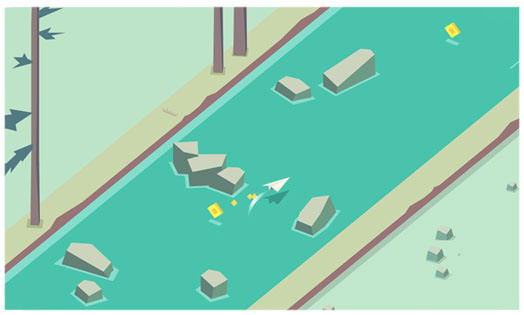
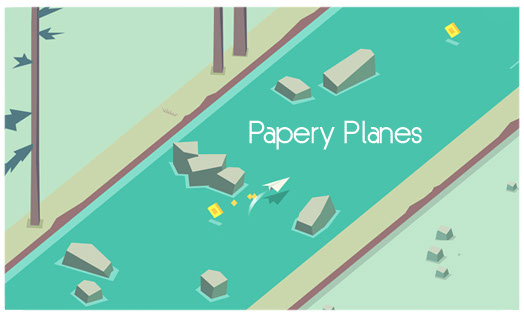
Header images updated

Changed region(s): [[0.458, 0.3714, 0.8244, 0.4857]]

diff --git a/index.html b/index.html
@@ -23,12 +23,12 @@ if(typeof Muse == "undefined") window.Muse = {}; window.Muse.assets = {"required
   <title>Akos Makovics - Awesome iOS and Android games</title>
   <!-- CSS -->
   <link rel="stylesheet" type="text/css" href="css/site_global.css?crc=443350757"/>
-  <link rel="stylesheet" type="text/css" href="css/master_master.css?crc=76406143"/>
-  <link rel="stylesheet" type="text/css" href="css/index.css?crc=3833459320" id="pagesheet"/>
+  <link rel="stylesheet" type="text/css" href="css/master_master.css?crc=266289373"/>
+  <link rel="stylesheet" type="text/css" href="css/index.css?crc=240706939" id="pagesheet"/>
   <!-- IE-only CSS -->
   <!--[if lt IE 9]>
   <link rel="stylesheet" type="text/css" href="css/nomq_preview_master_master.css?crc=3824530138"/>
-  <link rel="stylesheet" type="text/css" href="css/nomq_index.css?crc=430842893" id="nomq_pagesheet"/>
+  <link rel="stylesheet" type="text/css" href="css/nomq_index.css?crc=3784313563" id="nomq_pagesheet"/>
   <![endif]-->
   <!-- Other scripts -->
   <script type="text/javascript">
@@ -51,44 +51,24 @@ if(typeof Muse == "undefined") window.Muse = {}; window.Muse.assets = {"required
      <a class="nonblock nontext clip_frame grpelem" id="u219" href="mailto:contact@akos-makovics.com"><!-- image --><img class="block temp_no_img_src" id="u219_img" data-orig-src="images/email.png?crc=101407751" alt="" width="76" height="76" src="images/blank.gif?crc=4208392903"/></a>
      <a class="nonblock nontext clip_frame grpelem" id="u229" href="https://www.facebook.com/akosMakovicsDev"><!-- image --><img class="block temp_no_img_src" id="u229_img" data-orig-src="images/facebook.png?crc=295356413" alt="" width="76" height="76" src="images/blank.gif?crc=4208392903"/></a>
     </div>
-    <div class="browser_width colelem shared_content" id="u8701-4-bw" data-content-guid="u8701-4-bw_content">
-     <div class="clearfix shared_content" id="u8701-4" data-content-guid="u8701-4_content"><!-- content -->
-      <p>RoundRoundRound</p>
-     </div>
-    </div>
     <div class="clip_frame colelem" id="u8699"><!-- image -->
-     <img class="block temp_no_img_src" id="u8699_img" data-orig-src="images/banner_round3.png?crc=509090210" alt="" data-image-width="550" data-image-height="331" src="images/blank.gif?crc=4208392903"/>
+     <img class="block temp_no_img_src" id="u8699_img" data-orig-src="images/banner_round3.png?crc=235600135" alt="" data-image-width="550" data-image-height="331" src="images/blank.gif?crc=4208392903"/>
     </div>
     <div class="browser_width colelem shared_content" id="u8727-4-bw" data-content-guid="u8727-4-bw_content">
      <div class="clearfix shared_content" id="u8727-4" data-content-guid="u8727-4_content"><!-- content -->
       <p>Coming soon!</p>
      </div>
     </div>
-    <div class="browser_width colelem shared_content" id="u8437-4-bw" data-content-guid="u8437-4-bw_content">
-     <div class="clearfix shared_content" id="u8437-4" data-content-guid="u8437-4_content"><!-- content -->
-      <p>Papery Planes</p>
-     </div>
-    </div>
-    <a class="nonblock nontext clip_frame colelem" id="u8435" href="papery_planes.html"><!-- image --><img class="block temp_no_img_src" id="u8435_img" data-orig-src="images/banner_papery_planes.jpg?crc=4279991711" alt="" data-image-width="550" data-image-height="331" src="images/blank.gif?crc=4208392903"/></a>
+    <a class="nonblock nontext clip_frame colelem" id="u8435" href="papery_planes.html"><!-- image --><img class="block temp_no_img_src" id="u8435_img" data-orig-src="images/banner_papery_planes.jpg?crc=3875786347" alt="" data-image-width="550" data-image-height="331" src="images/blank.gif?crc=4208392903"/></a>
     <a class="nonblock nontext clip_frame colelem shared_content" id="u8574" href="https://itunes.apple.com/app/id1189187822" data-content-guid="u8574_content"><!-- svg --><img class="svg temp_no_img_src" id="u8575" data-orig-src="images/app-store-badge.svg?crc=205710994" width="150" height="44" alt="" data-mu-svgfallback="images/app%20store%20badge_poster_.png?crc=4048965831" src="images/blank.gif?crc=4208392903"/></a>
-    <div class="browser_width colelem shared_content" id="u7683-4-bw" data-content-guid="u7683-4-bw_content">
-     <div class="clearfix shared_content" id="u7683-4" data-content-guid="u7683-4_content"><!-- content -->
-      <p>Bouncy Cubes</p>
-     </div>
-    </div>
-    <a class="nonblock nontext clip_frame colelem" id="u7669" href="bouncy_cubes.html"><!-- image --><img class="block temp_no_img_src" id="u7669_img" data-orig-src="images/banner_bouncy_cubes.jpg?crc=71109757" alt="" data-image-width="550" data-image-height="331" src="images/blank.gif?crc=4208392903"/></a>
+    <a class="nonblock nontext clip_frame colelem" id="u7669" href="bouncy_cubes.html"><!-- image --><img class="block temp_no_img_src" id="u7669_img" data-orig-src="images/banner_bouncy_cubes.jpg?crc=503476358" alt="" data-image-width="550" data-image-height="331" src="images/blank.gif?crc=4208392903"/></a>
     <a class="nonblock nontext clip_frame colelem shared_content" id="u8035" href="https://itunes.apple.com/app/id1124379712" data-content-guid="u8035_content"><!-- svg --><img class="svg temp_no_img_src" id="u8036" data-orig-src="images/app-store-badge.svg?crc=205710994" width="150" height="44" alt="" data-mu-svgfallback="images/app%20store%20badge_poster_.png?crc=4048965831" src="images/blank.gif?crc=4208392903"/></a>
-    <div class="browser_width colelem shared_content" id="u309-4-bw" data-content-guid="u309-4-bw_content">
-     <div class="clearfix shared_content" id="u309-4" data-content-guid="u309-4_content"><!-- content -->
-      <p>Casual Cube</p>
-     </div>
-    </div>
-    <a class="nonblock nontext clip_frame colelem" id="u299" href="casual_cube.html"><!-- image --><img class="block temp_no_img_src" id="u299_img" data-orig-src="images/banner_casualcubes.png?crc=136656570" alt="" data-image-width="550" data-image-height="331" src="images/blank.gif?crc=4208392903"/></a>
+    <a class="nonblock nontext clip_frame colelem" id="u299" href="casual_cube.html"><!-- image --><img class="block temp_no_img_src" id="u299_img" data-orig-src="images/banner_casualcubes.png?crc=346725018" alt="" data-image-width="550" data-image-height="331" src="images/blank.gif?crc=4208392903"/></a>
     <div class="clearfix colelem shared_content" id="pu352" data-content-guid="pu352_content"><!-- group -->
      <a class="nonblock nontext clip_frame grpelem" id="u352" href="http://itunes.apple.com/app/id1022756733"><!-- svg --><img class="svg temp_no_img_src" id="u6209" data-orig-src="images/app-store-badge.svg?crc=205710994" width="150" height="44" alt="" data-mu-svgfallback="images/app%20store%20badge_poster_.png?crc=4048965831" src="images/blank.gif?crc=4208392903"/></a>
      <a class="nonblock nontext museBGSize grpelem" id="u6268" href="https://play.google.com/store/apps/details?id=com.atlantisgames.hopgame&amp;pageId=112080304641042623509"><!-- simple frame --></a>
     </div>
-    <div class="verticalspacer" data-offset-top="2467" data-content-above-spacer="2466" data-content-below-spacer="244"></div>
+    <div class="verticalspacer" data-offset-top="2357" data-content-above-spacer="2356" data-content-below-spacer="205"></div>
     <div class="clearfix colelem shared_content" id="u198-4" data-content-guid="u198-4_content"><!-- content -->
      <p>© Copyright Akos Makovics. All rights reserved</p>
     </div>
@@ -98,49 +78,39 @@ if(typeof Muse == "undefined") window.Muse = {}; window.Muse.assets = {"required
    <div class="clearfix borderbox temp_no_id" data-orig-id="page"><!-- column -->
     <span class="clip_frame colelem placeholder" data-placeholder-for="u181_content"><!-- placeholder node --></span>
     <span class="clearfix colelem placeholder" data-placeholder-for="pu209_content"><!-- placeholder node --></span>
-    <span class="browser_width colelem placeholder" data-placeholder-for="u8701-4-bw_content"><!-- placeholder node --></span>
     <div class="clip_frame colelem temp_no_id" data-orig-id="u8699"><!-- image -->
-     <img class="block temp_no_id temp_no_img_src" data-orig-src="images/banner_round3.png?crc=509090210" alt="" width="550" height="330" data-orig-id="u8699_img" src="images/blank.gif?crc=4208392903"/>
+     <img class="block temp_no_id temp_no_img_src" data-orig-src="images/banner_round3.png?crc=235600135" alt="" width="550" height="330" data-orig-id="u8699_img" src="images/blank.gif?crc=4208392903"/>
     </div>
     <span class="browser_width colelem placeholder" data-placeholder-for="u8727-4-bw_content"><!-- placeholder node --></span>
-    <span class="browser_width colelem placeholder" data-placeholder-for="u8437-4-bw_content"><!-- placeholder node --></span>
-    <a class="nonblock nontext clip_frame colelem temp_no_id" href="papery_planes.html" data-orig-id="u8435"><!-- image --><img class="block temp_no_id temp_no_img_src" data-orig-src="images/banner_papery_planes.jpg?crc=4279991711" alt="" width="550" height="330" data-orig-id="u8435_img" src="images/blank.gif?crc=4208392903"/></a>
+    <a class="nonblock nontext clip_frame colelem temp_no_id" href="papery_planes.html" data-orig-id="u8435"><!-- image --><img class="block temp_no_id temp_no_img_src" data-orig-src="images/banner_papery_planes.jpg?crc=3875786347" alt="" width="550" height="330" data-orig-id="u8435_img" src="images/blank.gif?crc=4208392903"/></a>
     <span class="nonblock nontext clip_frame colelem placeholder" data-placeholder-for="u8574_content"><!-- placeholder node --></span>
-    <span class="browser_width colelem placeholder" data-placeholder-for="u7683-4-bw_content"><!-- placeholder node --></span>
-    <a class="nonblock nontext clip_frame colelem temp_no_id" href="bouncy_cubes.html" data-orig-id="u7669"><!-- image --><img class="block temp_no_id temp_no_img_src" data-orig-src="images/banner_bouncy_cubes.jpg?crc=71109757" alt="" width="550" height="331" data-orig-id="u7669_img" src="images/blank.gif?crc=4208392903"/></a>
+    <a class="nonblock nontext clip_frame colelem temp_no_id" href="bouncy_cubes.html" data-orig-id="u7669"><!-- image --><img class="block temp_no_id temp_no_img_src" data-orig-src="images/banner_bouncy_cubes.jpg?crc=503476358" alt="" width="550" height="331" data-orig-id="u7669_img" src="images/blank.gif?crc=4208392903"/></a>
     <span class="nonblock nontext clip_frame colelem placeholder" data-placeholder-for="u8035_content"><!-- placeholder node --></span>
-    <span class="browser_width colelem placeholder" data-placeholder-for="u309-4-bw_content"><!-- placeholder node --></span>
-    <a class="nonblock nontext clip_frame colelem temp_no_id" href="casual_cube.html" data-orig-id="u299"><!-- image --><img class="block temp_no_id temp_no_img_src" data-orig-src="images/banner_casualcubes.png?crc=136656570" alt="" width="550" height="331" data-orig-id="u299_img" src="images/blank.gif?crc=4208392903"/></a>
+    <a class="nonblock nontext clip_frame colelem temp_no_id" href="casual_cube.html" data-orig-id="u299"><!-- image --><img class="block temp_no_id temp_no_img_src" data-orig-src="images/banner_casualcubes.png?crc=346725018" alt="" width="550" height="331" data-orig-id="u299_img" src="images/blank.gif?crc=4208392903"/></a>
     <span class="clearfix colelem placeholder" data-placeholder-for="pu352_content"><!-- placeholder node --></span>
-    <div class="verticalspacer" data-offset-top="2643" data-content-above-spacer="2642" data-content-below-spacer="141"></div>
+    <div class="verticalspacer" data-offset-top="2366" data-content-above-spacer="2366" data-content-below-spacer="208"></div>
     <span class="clearfix colelem placeholder" data-placeholder-for="u198-4_content"><!-- placeholder node --></span>
    </div>
   </div>
   <div class="breakpoint" id="bp_640" data-max-width="640"><!-- responsive breakpoint node -->
    <div class="clearfix borderbox temp_no_id" data-orig-id="page"><!-- group -->
-    <div class="clearfix grpelem" id="pu8701-4"><!-- column -->
-     <span class="clearfix colelem placeholder" data-placeholder-for="u8701-4_content"><!-- placeholder node --></span>
-     <span class="clearfix colelem placeholder" data-placeholder-for="u8727-4_content"><!-- placeholder node --></span>
-     <span class="clearfix colelem placeholder" data-placeholder-for="u8437-4_content"><!-- placeholder node --></span>
-     <span class="clearfix colelem placeholder" data-placeholder-for="u7683-4_content"><!-- placeholder node --></span>
-     <span class="clearfix colelem placeholder" data-placeholder-for="u309-4_content"><!-- placeholder node --></span>
-    </div>
+    <span class="clearfix grpelem placeholder" data-placeholder-for="u8727-4_content"><!-- placeholder node --></span>
     <div class="clearfix grpelem" id="pu181"><!-- column -->
      <div class="clip_frame colelem temp_no_id" data-orig-id="u181"><!-- image -->
       <img class="block temp_no_id temp_no_img_src" data-orig-src="images/logo.png?crc=314074293" alt="" width="164" height="176" data-orig-id="u181_img" src="images/blank.gif?crc=4208392903"/>
      </div>
      <span class="clearfix colelem placeholder" data-placeholder-for="pu209_content"><!-- placeholder node --></span>
      <div class="clip_frame colelem temp_no_id" data-orig-id="u8699"><!-- image -->
-      <img class="block temp_no_id temp_no_img_src" data-orig-src="images/banner_round3.png?crc=509090210" alt="" data-image-width="475" data-image-height="286" data-orig-id="u8699_img" src="images/blank.gif?crc=4208392903"/>
+      <img class="block temp_no_id temp_no_img_src" data-orig-src="images/banner_round3.png?crc=235600135" alt="" data-image-width="475" data-image-height="286" data-orig-id="u8699_img" src="images/blank.gif?crc=4208392903"/>
      </div>
-     <a class="nonblock nontext clip_frame colelem temp_no_id" href="papery_planes.html" data-orig-id="u8435"><!-- image --><img class="block temp_no_id temp_no_img_src" data-orig-src="images/banner_papery_planes.jpg?crc=4279991711" alt="" data-image-width="475" data-image-height="286" data-orig-id="u8435_img" src="images/blank.gif?crc=4208392903"/></a>
+     <a class="nonblock nontext clip_frame colelem temp_no_id" href="papery_planes.html" data-orig-id="u8435"><!-- image --><img class="block temp_no_id temp_no_img_src" data-orig-src="images/banner_papery_planes.jpg?crc=3875786347" alt="" data-image-width="475" data-image-height="286" data-orig-id="u8435_img" src="images/blank.gif?crc=4208392903"/></a>
      <span class="nonblock nontext clip_frame colelem placeholder" data-placeholder-for="u8574_content"><!-- placeholder node --></span>
-     <a class="nonblock nontext clip_frame colelem temp_no_id" href="bouncy_cubes.html" data-orig-id="u7669"><!-- image --><img class="block temp_no_id temp_no_img_src" data-orig-src="images/banner_bouncy_cubes.jpg?crc=71109757" alt="" data-image-width="475" data-image-height="286" data-orig-id="u7669_img" src="images/blank.gif?crc=4208392903"/></a>
+     <a class="nonblock nontext clip_frame colelem temp_no_id" href="bouncy_cubes.html" data-orig-id="u7669"><!-- image --><img class="block temp_no_id temp_no_img_src" data-orig-src="images/banner_bouncy_cubes.jpg?crc=503476358" alt="" data-image-width="475" data-image-height="286" data-orig-id="u7669_img" src="images/blank.gif?crc=4208392903"/></a>
      <span class="nonblock nontext clip_frame colelem placeholder" data-placeholder-for="u8035_content"><!-- placeholder node --></span>
-     <a class="nonblock nontext clip_frame colelem temp_no_id" href="casual_cube.html" data-orig-id="u299"><!-- image --><img class="block temp_no_id temp_no_img_src" data-orig-src="images/banner_casualcubes.png?crc=136656570" alt="" data-image-width="475" data-image-height="286" data-orig-id="u299_img" src="images/blank.gif?crc=4208392903"/></a>
+     <a class="nonblock nontext clip_frame colelem temp_no_id" href="casual_cube.html" data-orig-id="u299"><!-- image --><img class="block temp_no_id temp_no_img_src" data-orig-src="images/banner_casualcubes.png?crc=346725018" alt="" data-image-width="475" data-image-height="286" data-orig-id="u299_img" src="images/blank.gif?crc=4208392903"/></a>
      <span class="clearfix colelem placeholder" data-placeholder-for="pu352_content"><!-- placeholder node --></span>
     </div>
-    <div class="verticalspacer" data-offset-top="2232" data-content-above-spacer="2232" data-content-below-spacer="70"></div>
+    <div class="verticalspacer" data-offset-top="2052" data-content-above-spacer="2052" data-content-below-spacer="70"></div>
     <span class="clearfix grpelem placeholder" data-placeholder-for="u198-4_content"><!-- placeholder node --></span>
    </div>
   </div>

diff --git a/css/index.css b/css/index.css
@@ -1,1 +1,1 @@
-.version.index{color:#0000E4;background-color:#7DF278;}.js body{visibility:hidden;}.js body.initialized{visibility:visible;}#page{background-image:none;border-width:0px;border-color:#000000;background-color:#000000;margin-right:auto;margin-left:auto;z-index:1;width:100%;}#u8701-4{color:#FFFFFF;text-align:center;z-index:41;background-color:transparent;font-family:imprima, sans-serif;font-size:42px;font-weight:400;line-height:50px;}#u8727-4{color:#FFFFFF;font-weight:400;background-color:transparent;font-family:imprima, sans-serif;font-size:37px;line-height:44px;z-index:45;text-align:center;}#u8437-4{color:#FFFFFF;font-weight:400;background-color:transparent;font-family:imprima, sans-serif;font-size:42px;line-height:50px;z-index:33;text-align:center;}#u7683-4{color:#FFFFFF;font-weight:400;background-color:transparent;font-family:imprima, sans-serif;font-size:42px;line-height:50px;z-index:25;text-align:center;}#u309-4{color:#FFFFFF;font-weight:400;background-color:transparent;font-family:imprima, sans-serif;font-size:42px;line-height:50px;z-index:16;text-align:center;}#u181{z-index:2;position:relative;}#pu209{z-index:8;}#u209{width:76px;margin-right:-10000px;z-index:8;position:relative;}#u219{width:76px;margin-right:-10000px;z-index:10;position:relative;}#u229{width:76px;margin-right:-10000px;z-index:12;position:relative;}#u8699{background-color:transparent;z-index:39;position:relative;}#u8435{z-index:31;position:relative;background-color:transparent;}#u8574{z-index:37;position:relative;background-color:transparent;width:150px;}#u8575{margin-bottom:10px;display:block;z-index:38;}#u7669{position:relative;background-color:transparent;z-index:23;}#u8035{z-index:29;position:relative;background-color:transparent;width:150px;}#u8036{margin-bottom:10px;display:block;z-index:30;}#u299{background-color:transparent;z-index:14;position:relative;}#pu352{z-index:20;}#u352{z-index:20;position:relative;background-color:transparent;width:150px;margin-right:-10000px;}#u6209{margin-bottom:10px;display:block;z-index:21;}#u6268{width:150px;position:relative;opacity:1;filter:alpha(opacity=100);margin-right:-10000px;z-index:22;-ms-filter:"progid:DXImageTransform.Microsoft.Alpha(Opacity=100)";height:45px;background:transparent url("../images/get_it_on_google_play.svg?crc=4113458535") no-repeat left top;background-size:contain;}.nosvg #u6268{background-image:url('../images/get_it_on_google_play_poster_u6281.png?crc=3860599374');}#u198-4{z-index:4;position:relative;min-height:50px;}.html{background-color:#000000;}body{position:relative;}@media (min-width: 751px), print{#muse_css_mq{background-color:#FFFFFF;}#bp_infinity.active{display:block;}#page{min-height:2660.685313174946px;padding-top:38px;padding-bottom:11.314686825054196px;max-width:960px;}#u181{width:162px;margin-left:41.57%;}#pu209{margin-top:17px;width:100%;}#u209{left:33.34%;}#u219{left:46.57%;}#u229{left:59.9%;}#u8701-4-bw{z-index:41;min-height:62px;margin-top:131px;}#u8727-4{min-height:45px;}#u8727-4-bw{z-index:45;min-height:45px;}#u8437-4-bw{z-index:33;min-height:62px;margin-top:66px;}#u8435{margin-top:1px;width:57.3%;margin-left:21.36%;}#u8574{margin-top:8px;margin-left:42.19%;}#u7683-4-bw{z-index:25;min-height:62px;margin-top:67px;}#u8035{margin-top:6px;margin-left:42.5%;}#u8701-4,#u8437-4,#u7683-4,#u309-4{min-height:62px;}#u309-4-bw{z-index:16;min-height:62px;margin-top:62px;}#u8699,#u7669,#u299{width:57.3%;margin-left:21.36%;}#u8699_img,#u8435_img,#u7669_img,#u299_img{padding-bottom:9px;width:100%;}#pu352{margin-top:6px;width:100%;}#u352{left:26.88%;}#u6268{left:56.78%;}.css_verticalspacer .verticalspacer{height:calc(100vh - 2710px);}#u198-4{margin-top:182px;width:48.23%;margin-left:25.84%;}}@media (min-width: 641px) and (max-width: 750px){#muse_css_mq{background-color:#0002ee;}#bp_750.active{display:block;}#page{min-height:2729.5853131749454px;padding-top:38px;padding-bottom:15.41468682505456px;max-width:750px;}#u181{width:162px;margin-left:39.2%;}#pu209{margin-top:13px;width:100%;}#u209{left:28.01%;}#u219{left:44.94%;}#u229{left:61.87%;}#u8701-4-bw{z-index:41;min-height:62px;margin-top:129px;}#u8699{width:550px;margin-left:50%;left:-275px;}#u8727-4-bw{z-index:45;min-height:62px;margin-top:8px;}#u8437-4-bw{z-index:33;min-height:62px;margin-top:138px;}#u8435{width:550px;margin-top:10px;margin-left:50%;left:-275px;}#u8574{margin-top:16px;margin-left:40%;}#u7683-4-bw{z-index:25;min-height:62px;margin-top:92px;}#u7669{width:550px;margin-top:8px;margin-left:50%;left:-275px;}#u8035{margin-top:12px;margin-left:40%;}#u8701-4,#u8727-4,#u8437-4,#u7683-4,#u309-4{min-height:62px;}#u309-4-bw{z-index:16;min-height:62px;margin-top:91px;}#u299{width:550px;margin-left:50%;left:-285px;}#u8699_img,#u8435_img,#u7669_img,#u299_img{padding-bottom:9px;}#pu352{margin-top:6px;width:100%;}#u352{left:21.07%;}#u6268{left:58.14%;}.css_verticalspacer .verticalspacer{height:calc(100vh - 2783px);}#u198-4{margin-top:75px;width:48.27%;margin-left:25.87%;}body{overflow-x:hidden;}}@media (max-width: 640px){#muse_css_mq{background-color:#000280;}#bp_640.active{display:block;}#page{min-height:2396px;padding-bottom:11px;max-width:640px;}#pu8701-4{z-index:41;margin-right:-10000px;margin-top:379px;width:100%;margin-left:0%;}#u8701-4{width:640px;min-height:50px;position:relative;margin-left:50%;left:-320px;}#u8727-4{width:640px;min-height:50px;margin-top:290px;position:relative;margin-left:50%;left:-320px;}#u8437-4{width:640px;min-height:50px;margin-top:90px;position:relative;margin-left:50%;left:-320px;}#u7683-4{width:640px;min-height:50px;margin-top:424px;position:relative;margin-left:50%;left:-320px;}#u309-4{width:640px;min-height:50px;margin-top:434px;position:relative;margin-left:50%;left:-320px;}#pu181{z-index:2;padding-bottom:0px;margin-right:-10000px;margin-top:37px;width:74.22%;margin-left:12.82%;}#u181{width:164px;margin-left:30.74%;}#pu209{margin-top:14px;width:69.06%;margin-left:13.48%;}#u219{left:38.42%;}#u229{left:76.83%;}#u8699{margin-top:126px;width:100%;}#u8435{margin-top:188px;width:100%;}#u8574{margin-top:7px;margin-left:34.11%;}#u7669{margin-top:128px;width:100%;}#u8035{margin-left:34.11%;}#u299{margin-top:131px;width:100%;}#u8699_img,#u8435_img,#u7669_img,#u299_img{padding-bottom:8px;width:100%;}#pu352{margin-top:11px;width:81.9%;margin-left:10.32%;}#u6268{left:61.44%;}.css_verticalspacer .verticalspacer{height:calc(100vh - 2302px);}#u198-4{margin-right:-10000px;margin-top:9px;width:48.29%;left:24.38%;}body{overflow-x:hidden;min-width:640px;}.verticalspacer{min-height:105px;}}
+.version.index{color:#00000E;background-color:#58E57B;}.js body{visibility:hidden;}.js body.initialized{visibility:visible;}#page{margin-right:auto;width:100%;border-width:0px;background-image:none;z-index:1;background-color:#000000;border-color:#000000;margin-left:auto;}#u8727-4{color:#FFFFFF;background-color:transparent;z-index:29;font-size:37px;text-align:center;line-height:44px;font-weight:400;font-family:imprima, sans-serif;}#u181{z-index:2;position:relative;}#pu209{z-index:8;}#u209{margin-right:-10000px;width:76px;z-index:8;position:relative;}#u219{margin-right:-10000px;width:76px;z-index:10;position:relative;}#u229{margin-right:-10000px;width:76px;z-index:12;position:relative;}#u8699{background-color:transparent;position:relative;z-index:27;}#u8435{background-color:transparent;position:relative;z-index:23;}#u8574{background-color:transparent;position:relative;width:150px;z-index:25;}#u8575{margin-bottom:10px;display:block;z-index:26;}#u7669{background-color:transparent;position:relative;z-index:19;}#u8035{background-color:transparent;position:relative;width:150px;z-index:21;}#u8036{margin-bottom:10px;display:block;z-index:22;}#u299{background-color:transparent;position:relative;z-index:14;}#pu352{z-index:16;}#u352{margin-right:-10000px;background-color:transparent;position:relative;width:150px;z-index:16;}#u6209{margin-bottom:10px;display:block;z-index:17;}#u6268{position:relative;opacity:1;z-index:18;-ms-filter:"progid:DXImageTransform.Microsoft.Alpha(Opacity=100)";filter:alpha(opacity=100);margin-right:-10000px;width:150px;height:45px;background:transparent url("../images/get_it_on_google_play.svg?crc=4113458535") no-repeat left top;background-size:contain;}.nosvg #u6268{background-image:url('../images/get_it_on_google_play_poster_u6281.png?crc=3860599374');}#u198-4{min-height:50px;position:relative;z-index:4;}.html{background-color:#000000;}body{position:relative;}@media (min-width: 751px), print{#muse_css_mq{background-color:#FFFFFF;}#bp_infinity.active{display:block;}#page{min-height:2511.685313174946px;padding-top:38px;padding-bottom:11.314686825054196px;max-width:960px;}#u181{width:162px;margin-left:41.57%;}#pu209{margin-top:17px;width:100%;}#u209{left:33.34%;}#u219{left:46.57%;}#u229{left:59.9%;}#u8727-4{min-height:45px;}#u8727-4-bw{z-index:29;min-height:45px;}#u8435{margin-top:104px;width:57.3%;margin-left:21.36%;}#u8574{margin-top:8px;margin-left:42.19%;}#u8699,#u7669{margin-top:128px;width:57.3%;margin-left:21.36%;}#u8035{margin-top:6px;margin-left:42.5%;}#u299{margin-top:105px;width:57.3%;margin-left:21.36%;}#u8699_img,#u8435_img,#u7669_img,#u299_img{padding-bottom:9px;width:100%;}#pu352{margin-top:6px;width:100%;}#u352{left:26.88%;}#u6268{left:56.78%;}.css_verticalspacer .verticalspacer{height:calc(100vh - 2561px);}#u198-4{margin-top:143px;width:48.23%;margin-left:25.84%;}}@media (min-width: 641px) and (max-width: 750px){#muse_css_mq{background-color:#0002ee;}#bp_750.active{display:block;}#page{min-height:2520.5853131749454px;padding-top:38px;padding-bottom:15.41468682505456px;max-width:750px;}#u181{width:162px;margin-left:39.2%;}#pu209{margin-top:13px;width:100%;}#u209{left:28.01%;}#u219{left:44.94%;}#u229{left:61.87%;}#u8699{width:550px;margin-top:101px;margin-left:50%;left:-275px;}#u8727-4{min-height:62px;}#u8727-4-bw{z-index:29;min-height:62px;margin-top:8px;}#u8435{width:550px;margin-top:110px;margin-left:50%;left:-275px;}#u8574{margin-top:16px;margin-left:40%;}#u7669{width:550px;margin-top:112px;margin-left:50%;left:-275px;}#u8035{margin-top:12px;margin-left:40%;}#u299{width:550px;margin-top:116px;margin-left:50%;left:-285px;}#u8699_img,#u8435_img,#u7669_img,#u299_img{padding-bottom:9px;}#pu352{margin-top:6px;width:100%;}#u352{left:21.07%;}#u6268{left:58.14%;}.css_verticalspacer .verticalspacer{height:calc(100vh - 2574px);}#u198-4{margin-top:143px;width:48.27%;margin-left:25.87%;}body{overflow-x:hidden;}}@media (max-width: 640px){#muse_css_mq{background-color:#000280;}#bp_640.active{display:block;}#page{min-height:2226px;padding-bottom:11px;max-width:640px;}#u8727-4{width:640px;min-height:50px;position:relative;margin-right:-10000px;margin-top:686px;margin-left:50%;left:-320px;}#pu181{z-index:2;padding-bottom:0px;margin-right:-10000px;margin-top:37px;width:74.22%;margin-left:12.82%;}#u181{width:164px;margin-left:30.74%;}#pu209{margin-top:14px;width:69.06%;margin-left:13.48%;}#u219{left:38.42%;}#u229{left:76.83%;}#u8699{margin-top:93px;width:100%;}#u8435{margin-top:141px;width:100%;}#u8574{margin-top:7px;margin-left:34.11%;}#u7669{margin-top:78px;width:100%;}#u8035{margin-left:34.11%;}#u299{margin-top:81px;width:100%;}#u8699_img,#u8435_img,#u7669_img,#u299_img{padding-bottom:8px;width:100%;}#pu352{margin-top:11px;width:81.9%;margin-left:10.32%;}#u6268{left:61.44%;}.css_verticalspacer .verticalspacer{height:calc(100vh - 2122px);}#u198-4{margin-right:-10000px;margin-top:9px;width:48.29%;left:24.38%;}body{overflow-x:hidden;min-width:640px;}.verticalspacer{min-height:115px;}}

diff --git a/phone/css/index.css b/phone/css/index.css
@@ -1,1 +1,1 @@
-.version.index{color:#000012;background-color:#9D9E97;}#muse_css_mq{background-color:#FFFFFF;}#page{z-index:1;min-height:1682px;background-image:none;border-width:0px;border-color:#000000;background-color:#000000;padding-bottom:11px;width:100%;max-width:380px;}#u9012-4{z-index:41;min-height:43px;background-color:transparent;color:#FFFFFF;line-height:43px;font-size:36px;text-align:center;font-family:imprima, sans-serif;font-weight:400;position:relative;margin-right:-10000px;margin-top:268px;width:82.64%;margin-left:8.69%;left:0px;}#u9010{z-index:39;background-color:transparent;position:relative;margin-right:-10000px;margin-top:311px;width:82.37%;left:8.69%;}#pu9030-4{z-index:45;padding-bottom:0px;margin-right:-10000px;margin-top:505px;width:82.9%;margin-left:8.56%;}#u9030-4{z-index:45;min-height:43px;background-color:transparent;color:#FFFFFF;line-height:43px;font-size:36px;text-align:center;font-family:imprima, sans-serif;font-weight:400;position:relative;width:99.69%;margin-left:0.16%;left:-0.4999999999999929px;}#u8543-4{z-index:33;min-height:43px;background-color:transparent;color:#FFFFFF;line-height:43px;font-size:36px;text-align:center;font-family:imprima, sans-serif;font-weight:400;margin-top:61px;position:relative;width:99.69%;margin-left:0.16%;left:0.5000000000000071px;}#u8541{z-index:31;background-color:transparent;position:relative;margin-right:-10000px;margin-top:652px;width:82.37%;left:8.69%;}#u7876-4{z-index:25;min-height:43px;background-color:transparent;color:#FFFFFF;line-height:43px;font-size:36px;text-align:center;font-family:imprima, sans-serif;font-weight:400;position:relative;margin-right:-10000px;margin-top:929px;width:82.64%;margin-left:8.69%;left:0px;}#u7869{z-index:23;background-color:transparent;position:relative;margin-right:-10000px;margin-top:972px;width:82.37%;left:8.69%;}#u5613-4{z-index:16;min-height:43px;background-color:transparent;color:#FFFFFF;line-height:43px;font-size:36px;text-align:center;font-family:imprima, sans-serif;font-weight:400;position:relative;margin-right:-10000px;margin-top:1247px;width:82.64%;margin-left:8.69%;left:5px;}#pu5437{z-index:2;margin-right:-10000px;margin-top:12px;width:82.37%;margin-left:10%;}#u5437{z-index:2;width:90px;position:relative;margin-left:34.19%;}#pu5440{z-index:8;margin-top:22px;width:57.51%;margin-left:19.49%;}#u5440{z-index:8;width:45px;position:relative;margin-right:-10000px;}#u5442{z-index:10;width:45px;position:relative;margin-right:-10000px;left:37.78%;}#u5444{z-index:12;width:45px;position:relative;margin-right:-10000px;left:75%;}#u8666{z-index:37;width:150px;background-color:transparent;margin-top:669px;position:relative;margin-left:24.61%;}#u8667{z-index:38;display:block;margin-bottom:8px;}#u8089{z-index:29;width:150px;background-color:transparent;margin-top:283px;position:relative;margin-left:26.2%;}#u8090{z-index:30;display:block;margin-bottom:8px;}#u5611{z-index:14;background-color:transparent;margin-top:72px;position:relative;width:100%;}#u9010_img,#u8541_img,#u7869_img,#u5611_img{padding-bottom:5px;width:100%;}#pu5614{z-index:20;margin-top:5px;width:92.98%;margin-left:2.24%;}#u5614{z-index:20;width:150px;background-color:transparent;position:relative;margin-right:-10000px;margin-top:4px;}#u6182{z-index:21;display:block;margin-bottom:8px;}#u6262{z-index:22;width:125px;height:45px;opacity:1;-ms-filter:"progid:DXImageTransform.Microsoft.Alpha(Opacity=100)";filter:alpha(opacity=100);position:relative;margin-right:-10000px;left:57.05%;background:transparent url("../../images/get_it_on_google_play.svg?crc=4113458535") no-repeat center center;background-size:contain;}.nosvg #u6262{background-image:url('../../images/get_it_on_google_play_poster_u6281.png?crc=3860599374');}.css_verticalspacer .verticalspacer{height:calc(100vh - 1609px);}#u5439-4{z-index:4;min-height:50px;position:relative;margin-right:-10000px;margin-top:10px;width:55.79%;left:22.11%;}.html{background-color:#000000;}body{position:relative;min-width:320px;}.verticalspacer{min-height:84px;}
+.version.index{color:#0000FD;background-color:#48033C;}#muse_css_mq{background-color:#FFFFFF;}#page{z-index:1;min-height:1613px;background-image:none;border-width:0px;border-color:#000000;background-color:#000000;padding-bottom:11px;width:100%;max-width:380px;}#u9010{z-index:27;background-color:transparent;position:relative;margin-right:-10000px;margin-top:263px;width:82.37%;left:8.69%;}#u9030-4{z-index:29;min-height:43px;background-color:transparent;line-height:26px;color:#FFFFFF;font-size:22px;text-align:center;font-family:imprima, sans-serif;font-weight:400;position:relative;margin-right:-10000px;margin-top:457px;width:82.64%;margin-left:8.69%;left:-1px;}#pu5437{z-index:2;margin-right:-10000px;margin-top:12px;width:83.69%;margin-left:8.69%;}#u5437{z-index:2;width:90px;position:relative;margin-left:34.91%;}#pu5440{z-index:8;margin-top:22px;width:56.61%;margin-left:20.76%;}#u5440{z-index:8;width:45px;position:relative;margin-right:-10000px;}#u5442{z-index:10;width:45px;position:relative;margin-right:-10000px;left:37.78%;}#u5444{z-index:12;width:45px;position:relative;margin-right:-10000px;left:75%;}#u8541{z-index:23;background-color:transparent;margin-top:390px;position:relative;width:98.43%;}#u8666{z-index:25;width:150px;background-color:transparent;margin-top:1px;position:relative;margin-left:25.79%;}#u8667{z-index:26;display:block;margin-bottom:8px;}#u7869{z-index:19;background-color:transparent;margin-top:67px;position:relative;width:98.43%;}#u8089{z-index:21;width:150px;background-color:transparent;margin-top:8px;position:relative;margin-left:27.05%;}#u8090{z-index:22;display:block;margin-bottom:8px;}#u5611{z-index:14;background-color:transparent;margin-top:67px;position:relative;width:98.43%;margin-left:1.58%;}#u9010_img,#u8541_img,#u7869_img,#u5611_img{padding-bottom:5px;width:100%;}#pu5614{z-index:16;margin-top:5px;width:91.51%;margin-left:3.46%;}#u5614{z-index:16;width:150px;background-color:transparent;position:relative;margin-right:-10000px;margin-top:4px;}#u6182{z-index:17;display:block;margin-bottom:8px;}#u6262{z-index:18;width:125px;height:45px;opacity:1;-ms-filter:"progid:DXImageTransform.Microsoft.Alpha(Opacity=100)";filter:alpha(opacity=100);position:relative;margin-right:-10000px;left:57.05%;background:transparent url("../../images/get_it_on_google_play.svg?crc=4113458535") no-repeat center center;background-size:contain;}.nosvg #u6262{background-image:url('../../images/get_it_on_google_play_poster_u6281.png?crc=3860599374');}.css_verticalspacer .verticalspacer{height:calc(100vh - 1504px);}#u5439-4{z-index:4;min-height:50px;position:relative;margin-right:-10000px;margin-top:10px;width:55.79%;left:22.11%;}.html{background-color:#000000;}body{position:relative;min-width:320px;}.verticalspacer{min-height:120px;}

diff --git a/phone/index.html b/phone/index.html
@@ -18,8 +18,8 @@ if(typeof Muse == "undefined") window.Muse = {}; window.Muse.assets = {"required
   <title>Akos Makovics - Awesome iOS and Android games</title>
   <!-- CSS -->
   <link rel="stylesheet" type="text/css" href="../css/site_global.css?crc=443350757"/>
-  <link rel="stylesheet" type="text/css" href="css/master_master.css?crc=3789443919"/>
-  <link rel="stylesheet" type="text/css" href="css/index.css?crc=312319639" id="pagesheet"/>
+  <link rel="stylesheet" type="text/css" href="css/master_master.css?crc=202605922"/>
+  <link rel="stylesheet" type="text/css" href="css/index.css?crc=4249355068" id="pagesheet"/>
   <!-- Other scripts -->
   <script type="text/javascript">
    var __adobewebfontsappname__ = "muse";
@@ -32,25 +32,9 @@ if(typeof Muse == "undefined") window.Muse = {}; window.Muse.assets = {"required
  <body>
 
   <div class="clearfix borderbox" id="page"><!-- group -->
-   <div class="clearfix grpelem" id="u9012-4"><!-- content -->
-    <p>RoundRoundRound</p>
-   </div>
-   <a class="nonblock nontext clip_frame grpelem" id="u9010" href="papery_planes.html"><!-- image --><img class="block" id="u9010_img" src="../images/banner_round3313x189.png?crc=87380911" alt="" data-image-width="313" data-image-height="188"/></a>
-   <div class="clearfix grpelem" id="pu9030-4"><!-- column -->
-    <div class="clearfix colelem" id="u9030-4"><!-- content -->
-     <p>Coming soon!</p>
-    </div>
-    <div class="clearfix colelem" id="u8543-4"><!-- content -->
-     <p>Papery Planes</p>
-    </div>
-   </div>
-   <a class="nonblock nontext clip_frame grpelem" id="u8541" href="papery_planes.html"><!-- image --><img class="block" id="u8541_img" src="../images/banner_papery_planes313x189.jpg?crc=3990026207" alt="" data-image-width="313" data-image-height="188"/></a>
-   <div class="clearfix grpelem" id="u7876-4"><!-- content -->
-    <p>Bouncy Cubes</p>
-   </div>
-   <a class="nonblock nontext clip_frame grpelem" id="u7869" href="bouncy_cubes.html"><!-- image --><img class="block" id="u7869_img" src="../images/banner_bouncy_cubes313x189.jpg?crc=3898420150" alt="" data-image-width="313" data-image-height="188"/></a>
-   <div class="clearfix grpelem" id="u5613-4"><!-- content -->
-    <p>Casual Cube</p>
+   <a class="nonblock nontext clip_frame grpelem" id="u9010" href="papery_planes.html"><!-- image --><img class="block" id="u9010_img" src="../images/banner_round3313x189.png?crc=154150279" alt="" data-image-width="313" data-image-height="188"/></a>
+   <div class="clearfix grpelem" id="u9030-4"><!-- content -->
+    <p>Coming soon!</p>
    </div>
    <div class="clearfix grpelem" id="pu5437"><!-- column -->
     <div class="clip_frame colelem" id="u5437"><!-- image -->
@@ -61,15 +45,17 @@ if(typeof Muse == "undefined") window.Muse = {}; window.Muse.assets = {"required
      <a class="nonblock nontext clip_frame grpelem" id="u5442" href="mailto:contact@akos-makovics.com"><!-- image --><img class="block" id="u5442_img" src="../images/email.png?crc=101407751" alt="" width="45" height="45"/></a>
      <a class="nonblock nontext clip_frame grpelem" id="u5444" href="https://www.facebook.com/akosMakovicsDev"><!-- image --><img class="block" id="u5444_img" src="../images/facebook.png?crc=295356413" alt="" width="45" height="45"/></a>
     </div>
+    <a class="nonblock nontext clip_frame colelem" id="u8541" href="papery_planes.html"><!-- image --><img class="block" id="u8541_img" src="../images/banner_papery_planes313x189.jpg?crc=11825623" alt="" data-image-width="313" data-image-height="188"/></a>
     <a class="nonblock nontext clip_frame colelem" id="u8666" href="https://itunes.apple.com/app/id1189187822"><!-- svg --><img class="svg" id="u8667" src="../images/app-store-badge.svg?crc=205710994" width="150" height="37" alt="" data-mu-svgfallback="../images/app%20store%20badge_poster_.png?crc=4048965831"/></a>
+    <a class="nonblock nontext clip_frame colelem" id="u7869" href="bouncy_cubes.html"><!-- image --><img class="block" id="u7869_img" src="../images/banner_bouncy_cubes313x189.jpg?crc=3789181423" alt="" data-image-width="313" data-image-height="188"/></a>
     <a class="nonblock nontext clip_frame colelem" id="u8089" href="https://itunes.apple.com/app/id1124379712"><!-- svg --><img class="svg" id="u8090" src="../images/app-store-badge.svg?crc=205710994" width="150" height="37" alt="" data-mu-svgfallback="../images/app%20store%20badge_poster_.png?crc=4048965831"/></a>
-    <a class="nonblock nontext clip_frame colelem" id="u5611" href="casual_cube.html"><!-- image --><img class="block" id="u5611_img" src="../images/banner_casualcubes314x189.png?crc=4231633609" alt="" data-image-width="313" data-image-height="188"/></a>
+    <a class="nonblock nontext clip_frame colelem" id="u5611" href="casual_cube.html"><!-- image --><img class="block" id="u5611_img" src="../images/banner_casualcubes314x189.png?crc=4071203634" alt="" data-image-width="313" data-image-height="188"/></a>
     <div class="clearfix colelem" id="pu5614"><!-- group -->
      <a class="nonblock nontext clip_frame grpelem" id="u5614" href="http://itunes.apple.com/app/id1022756733"><!-- svg --><img class="svg" id="u6182" src="../images/app-store-badge.svg?crc=205710994" width="150" height="37" alt="" data-mu-svgfallback="../images/app%20store%20badge_poster_.png?crc=4048965831"/></a>
      <a class="nonblock nontext museBGSize grpelem" id="u6262" href="https://play.google.com/store/apps/details?id=com.atlantisgames.hopgame&amp;pageId=112080304641042623509"><!-- simple frame --></a>
     </div>
    </div>
-   <div class="verticalspacer" data-offset-top="1538" data-content-above-spacer="1538" data-content-below-spacer="71"></div>
+   <div class="verticalspacer" data-offset-top="1433" data-content-above-spacer="1433" data-content-below-spacer="71"></div>
    <div class="clearfix grpelem" id="u5439-4"><!-- content -->
     <p>© Copyright Akos Makovics. All rights reserved</p>
    </div>

diff --git a/css/nomq_index.css b/css/nomq_index.css
@@ -1,1 +1,1 @@
-#muse_css_mq{background-color:#FFFFFF;}#bp_infinity.active{display:block;}#page{min-height:2660.685313174946px;padding-top:38px;padding-bottom:11.314686825054196px;max-width:960px;}#u181{width:162px;margin-left:41.57%;}#pu209{margin-top:17px;width:100%;}#u209{left:33.34%;}#u219{left:46.57%;}#u229{left:59.9%;}#u8701-4-bw{z-index:41;min-height:62px;margin-top:131px;}#u8727-4{min-height:45px;}#u8727-4-bw{z-index:45;min-height:45px;}#u8437-4-bw{z-index:33;min-height:62px;margin-top:66px;}#u8435{margin-top:1px;width:57.3%;margin-left:21.36%;}#u8574{margin-top:8px;margin-left:42.19%;}#u7683-4-bw{z-index:25;min-height:62px;margin-top:67px;}#u8035{margin-top:6px;margin-left:42.5%;}#u8701-4,#u8437-4,#u7683-4,#u309-4{min-height:62px;}#u309-4-bw{z-index:16;min-height:62px;margin-top:62px;}#u8699,#u7669,#u299{width:57.3%;margin-left:21.36%;}#u8699_img,#u8435_img,#u7669_img,#u299_img{padding-bottom:9px;width:100%;}#pu352{margin-top:6px;width:100%;}#u352{left:26.88%;}#u6268{left:56.78%;}.css_verticalspacer .verticalspacer{height:calc(100vh - 2710px);}#u198-4{margin-top:182px;width:48.23%;margin-left:25.84%;}
+#muse_css_mq{background-color:#FFFFFF;}#bp_infinity.active{display:block;}#page{min-height:2511.685313174946px;padding-top:38px;padding-bottom:11.314686825054196px;max-width:960px;}#u181{width:162px;margin-left:41.57%;}#pu209{margin-top:17px;width:100%;}#u209{left:33.34%;}#u219{left:46.57%;}#u229{left:59.9%;}#u8727-4{min-height:45px;}#u8727-4-bw{z-index:29;min-height:45px;}#u8435{margin-top:104px;width:57.3%;margin-left:21.36%;}#u8574{margin-top:8px;margin-left:42.19%;}#u8699,#u7669{margin-top:128px;width:57.3%;margin-left:21.36%;}#u8035{margin-top:6px;margin-left:42.5%;}#u299{margin-top:105px;width:57.3%;margin-left:21.36%;}#u8699_img,#u8435_img,#u7669_img,#u299_img{padding-bottom:9px;width:100%;}#pu352{margin-top:6px;width:100%;}#u352{left:26.88%;}#u6268{left:56.78%;}.css_verticalspacer .verticalspacer{height:calc(100vh - 2561px);}#u198-4{margin-top:143px;width:48.23%;margin-left:25.84%;}

diff --git a/phone/css/master_master.css b/phone/css/master_master.css
@@ -1,1 +1,1 @@
-#u5437,#u5440,#u5442,#u5444{background-color:transparent;}#u5439-4{background-color:transparent;color:#FFFFFF;line-height:19px;font-size:16px;text-align:center;font-family:imprima, sans-serif;font-weight:400;}
+#u5437,#u5440,#u5442,#u5444{background-color:transparent;}#u5439-4{background-color:transparent;line-height:19px;color:#FFFFFF;font-size:16px;text-align:center;font-family:imprima, sans-serif;font-weight:400;}

diff --git a/css/master_master.css b/css/master_master.css
@@ -1,1 +1,1 @@
-#u181,#u209,#u219,#u229{background-color:transparent;}#u198-4{color:#FFFFFF;font-weight:400;line-height:19px;background-color:transparent;font-family:imprima, sans-serif;font-size:16px;text-align:center;}
+#u181,#u209,#u219,#u229{background-color:transparent;}#u198-4{line-height:19px;color:#FFFFFF;background-color:transparent;text-align:center;font-weight:400;font-size:16px;font-family:imprima, sans-serif;}
